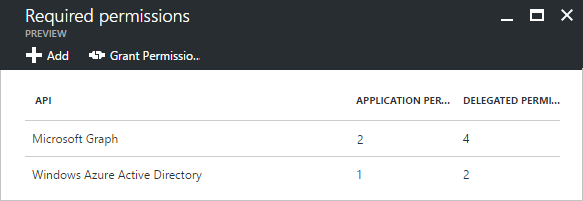
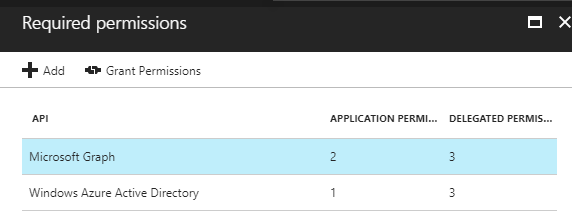
Update screenshot.

diff --git a/README.md b/README.md
@@ -85,7 +85,7 @@ EDUGraphAPI is based on ASP.NET MVC and [ASP.NET Identity](https://www.asp.net/i
 
      | API                            | Application Permissions                  | Delegated Permissions                    |
      | ------------------------------ | ---------------------------------------- | ---------------------------------------- |
-     | Microsoft Graph                | Read all users' full profiles<br> Read directory data | Read directory data<br>Read directory data<br>Access directory as the signed in user<br>Sign users in |
+     | Microsoft Graph                | Read all users' full profiles<br> Read directory data | Read directory data<br>Access directory as the signed in user<br>Sign users in |
      | Windows Azure Active Directory | Read directory data                      | Sign in and read user profile<br>Read and write directory data |
 
      ![](/Images/aad-create-app-06.png)
